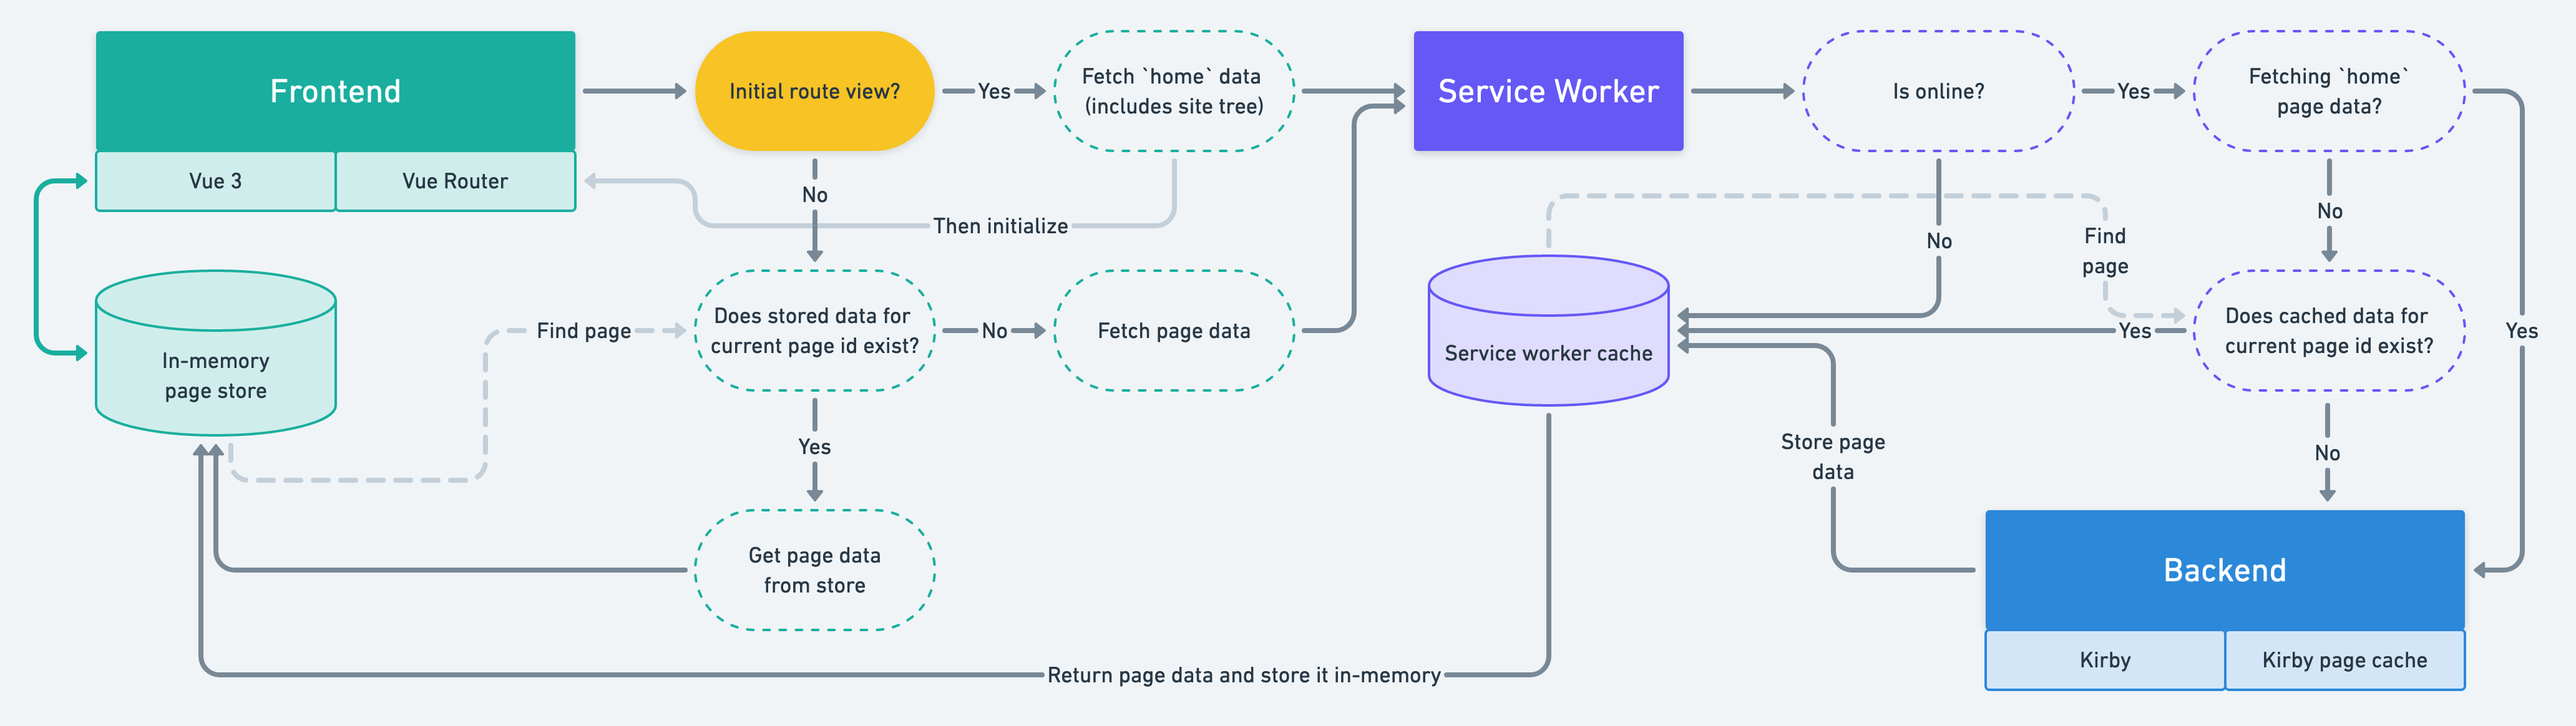
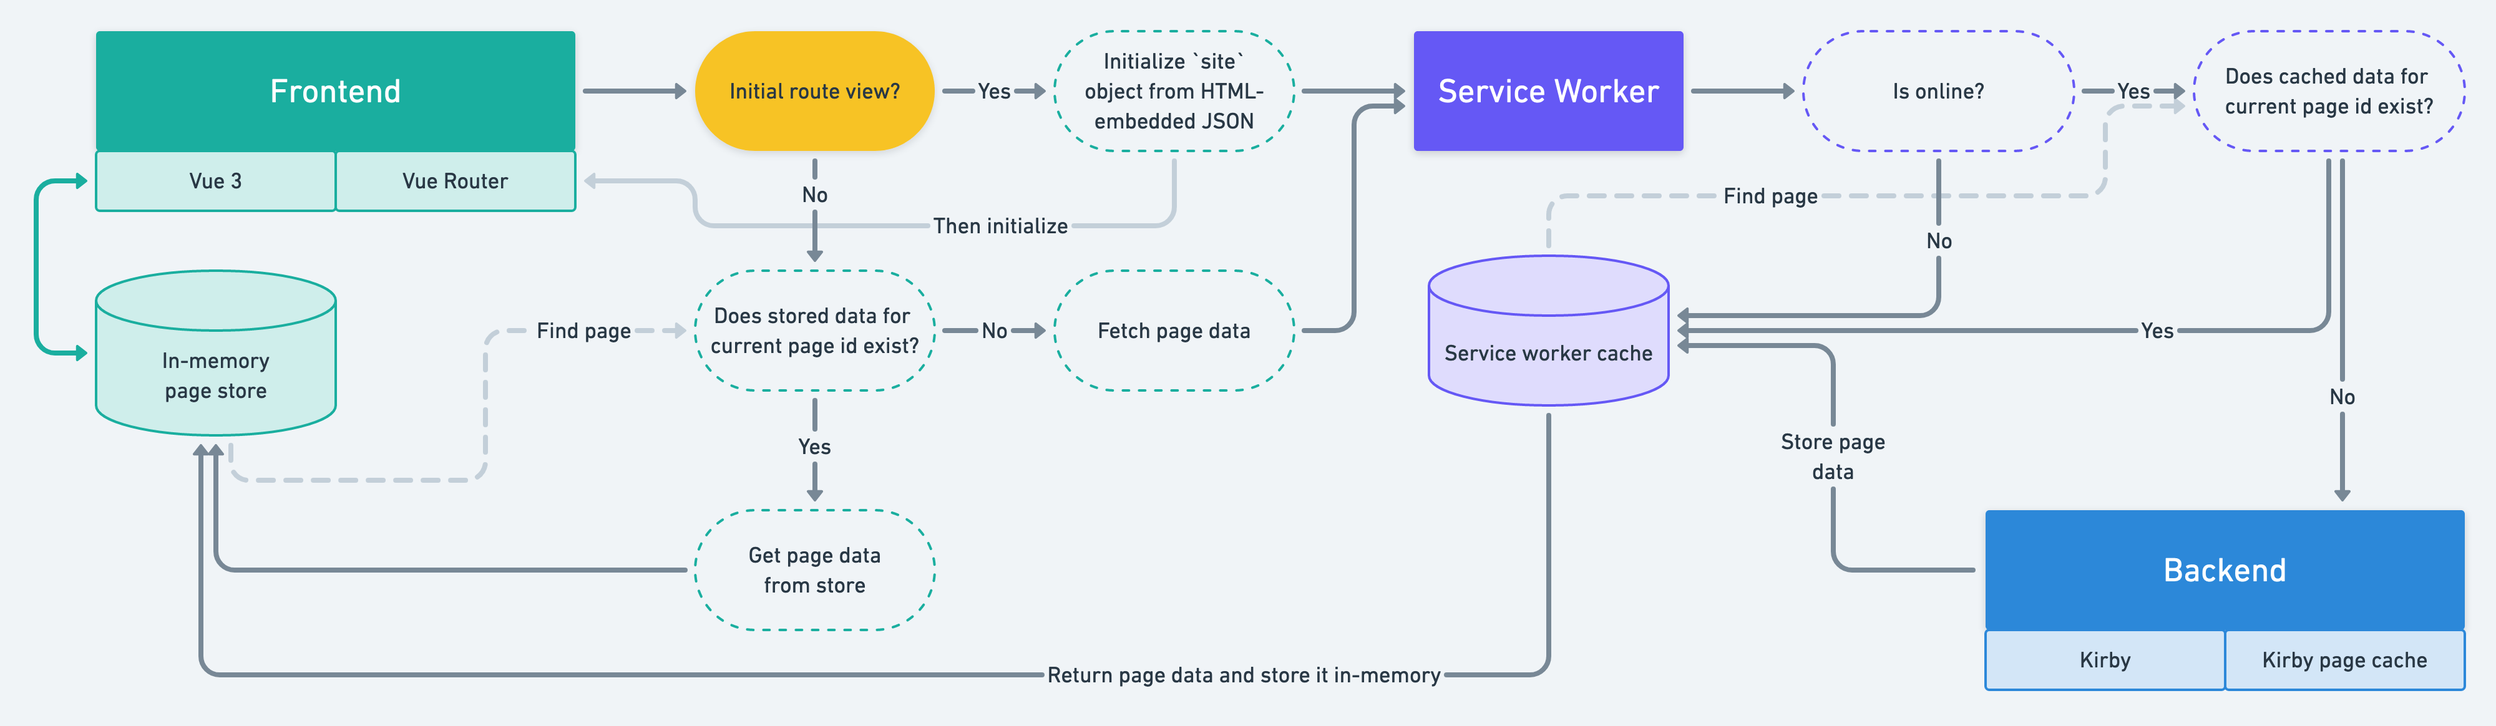
refactor!: embed site object for one less request

diff --git a/frontend/src/hooks/useKirbyApi.js b/frontend/src/hooks/useKirbyApi.js
@@ -76,12 +76,14 @@ const getPage = async (
 }
 
 /**
- * Fetch global `site` object and save it to the store
+ * Initialize global `site` object and save it to the store
  */
 const initSite = async () => {
-  // `site` is provided by `home` page
-  const home = await getPage('home')
-  kirbyStore.setSite(home.site)
+  const site = process.env.NODE_ENV === 'development'
+    ? await fetcher(`${apiLocation}/__site.json`)
+    : JSON.parse(document.getElementById('site-data').textContent)
+
+  kirbyStore.setSite(site)
 }
 
 /**

diff --git a/frontend/src/main.js b/frontend/src/main.js
@@ -11,7 +11,9 @@ const { initSite } = useKirbyApi()
 const { initSw } = useServiceWorker()
 
 ;(async () => {
+  // Router relies on children tree of `site` object
   await initSite()
+
   const router = initRouter()
   const app = createApp(App)
 

diff --git a/site/snippets/vue-index.php b/site/snippets/vue-index.php
@@ -5,13 +5,26 @@ use Kirby\Cms\Url;
 $assetsDir = Url::path(env('VITE_ASSETS_DIR'), true, true);
 $apiLocation = Url::path(env('CONTENT_API_SLUG'), true);
 
-$assetPath = function (string $pattern) use ($assetsDir) {
+/**
+ * Returns the filename for a build asset, e.g. `style.d4814c7a.css`
+ */
+$assetPath = function ($pattern) use ($assetsDir) {
   $filename = glob(kirby()->roots()->index() . $assetsDir . $pattern)[0] ?? null;
   if ($filename === null) throw new Exception('No production assets found. You have to bundle the app first. Run `npm run build`.');
   return $assetsDir . basename($filename);
 };
 
-$modulePreloadLink = function (string $name) use ($assetsDir) {
+/**
+ * Preloads the JSON-encoded page data for a given page
+ */
+$dataPreloadLink = function ($name) use ($apiLocation) {
+  return '<link rel="preload" href="' . $apiLocation . '/' . $name . '.json" as="fetch" crossorigin>';
+};
+
+/**
+ * Preloads the view module for a given page, e.g. `Home.e701bdef.js`
+ */
+$modulePreloadLink = function ($name) use ($assetsDir) {
   $filename = glob(kirby()->roots()->index() . $assetsDir . ucfirst($name) . '.*.js')[0] ?? null;
   if ($filename === null) return;
   return '<link rel="modulepreload" href="' . $assetsDir . basename($filename) . '">';
@@ -26,7 +39,7 @@ $modulePreloadLink = function (string $name) use ($assetsDir) {
   <meta name="viewport" content="width=device-width, initial-scale=1">
   <?php snippet('meta', compact('page', 'site')) ?>
 
-  <link rel="preload" href="<?= $apiLocation . '/home.json' ?>" as="fetch" crossorigin>
+  <?= $dataPreloadLink($page->id()) ?>
   <?= $modulePreloadLink($page->intendedTemplate()->name()) ?>
   <link rel="stylesheet" href="<?= $assetPath('style.*.css') ?>">
 
@@ -34,6 +47,7 @@ $modulePreloadLink = function (string $name) use ($assetsDir) {
 <body>
 
   <div id="app"></div>
+  <script id="site-data" type="application/json"><?= snippet('vue-site', compact('site')) ?></script>
   <script type="module" src="<?= $assetPath('index.*.js') ?>"></script>
 
 </body>

diff --git a/site/templates/home.php b/site/templates/home.php
@@ -2,24 +2,7 @@
 
 $data = [
   'title' => $page->title()->value(),
-  'metaTitle' => $page->customTitle()->or($page->title() . ' – ' . $site->title())->value(),
-
-  // Create `$site` analogy available through homepage
-  'site' => [
-    'title' => $site->title()->value(),
-    'children' => array_values($site->children()->published()->map(fn($child) => [
-      'id' => $child->id(),
-      'title' => $child->content()->title()->value(),
-      'template' => $child->intendedTemplate()->name(),
-      'isListed' => $child->isListed(),
-      'hasChildren' => $child->hasChildren(),
-      'childTemplate' => $child->hasChildren() ? $child->children()->published()->first()->intendedTemplate()->name() : null
-    ])->data()),
-    'social' => array_values(page('about')->social()->toStructure()->map(fn($social) => [
-      'url' => $social->url()->value(),
-      'platform' => $social->platform()->value()
-    ])->data())
-  ]
+  'metaTitle' => $page->customTitle()->or($page->title() . ' – ' . $site->title())->value()
 ];
 
 echo json_encode($data);

diff --git a/site/config/routes.php b/site/config/routes.php
@@ -35,9 +35,14 @@ return [
         'pattern' => $apiLocation . '(:all).json',
         'action'  => function ($pageId) {
             kirby()->response()->json();
-            // Prevent Kirby from falling back automatically to the error
-            // page, otherwise the service worker would fail installing
-            // due to the response's HTTP status code
+
+            // Return the global `site` object, used singly in development environment
+            if ($pageId === '__site') {
+                return Tpl::load(kirby()->roots()->snippets() . '/vue-site.php', ['site' => site()]);
+            }
+
+            // Prerender the page to prevent Kirby from using the error page's
+            // HTTP status code, otherwise the service worker fails installing
             return (page($pageId) ?? site()->errorPage())->render();
         }
     ],

diff --git a/site/snippets/vue-site.php b/site/snippets/vue-site.php
@@ -1,0 +1,19 @@
+<?php
+
+$site = [
+  'title' => $site->title()->value(),
+  'children' => array_values($site->children()->published()->map(fn($child) => [
+    'id' => $child->id(),
+    'title' => $child->content()->title()->value(),
+    'template' => $child->intendedTemplate()->name(),
+    'isListed' => $child->isListed(),
+    'hasChildren' => $child->hasChildren(),
+    'childTemplate' => $child->hasChildren() ? $child->children()->published()->first()->intendedTemplate()->name() : null
+  ])->data()),
+  'social' => array_values(page('about')->social()->toStructure()->map(fn($social) => [
+    'url' => $social->url()->value(),
+    'platform' => $social->platform()->value()
+  ])->data())
+];
+
+echo json_encode($site);

diff --git a/site/snippets/meta.php b/site/snippets/meta.php
@@ -4,9 +4,10 @@ use Kirby\Cms\Url;
 
 $title = $page->customTitle()->or($page->title() . ' – ' . $site->title());
 $description = $page->description()->or($site->description());
-$thumbnail = ($image = $page->thumbnail()->toFile())
-    ? $image->resize(1280)->url()
-    : (($siteImage = $site->thumbnail()->toFile()) ? $siteImage->resize(1280)->url() : '/img/android-chrome-512x512.png');
+$thumbnail = (function () use ($page, $site) {
+  $file = $page->thumbnail()->toFile() ?? $site->thumbnail()->toFile();
+  return $file ? $file->resize(1280)->url() : '/img/android-chrome-512x512.png';
+})();
 
 ?>
 

diff --git a/README.md b/README.md
@@ -137,9 +137,13 @@ kirby-vue3-starterkit/
 |   |   |   # Other files
 |   |   ├── [...]
 |   |   |
-|   |   |   # Index page used by Kirby in production environment
-|   |   |   # Except for asset loading identical to `frontend/index.html`
-|   |   └── index.php
+|   |   |   # Index page used in production environment – almost identical to `frontend/index.html`
+|   |   |   # Handles build asset paths, embeds the `site` object, includes SEO meta tags, …
+|   |   └── vue-index.php
+|   |   |
+|   |   |   # Builds a JSON-encoded `site` object
+|   |   |   # For example used by Vue Router to populate routes
+|   |   └── vue-site.php
 |   |
 |   |   # Templates for JSON content representations fetched by frontend
 |   └── templates/
@@ -261,14 +265,6 @@ To keep page data fresh with **stale-while-revalidate**, set:
 6. Some hosting environments require to uncomment `RewriteBase /` in [`.htaccess`](public/.htaccess) to make site links work.
 
 Now your project is hopefully up 'n' running!
-
-## FAQ
-
-### Why is `home.json` fetched on every page?
-
-The global `site` object is required to provide the Vue Router with possible routes. Thus the `site` object has to be loaded before any other page content. For a minimum amount of HTTP requests, this `site` object resides through the [home](site/templates/home.php) template.
-
-Users will probably visit the homepage first anyway. Adding an extra route just to provide the `site` content seems superfluous to me.
 
 ## Credits
 
